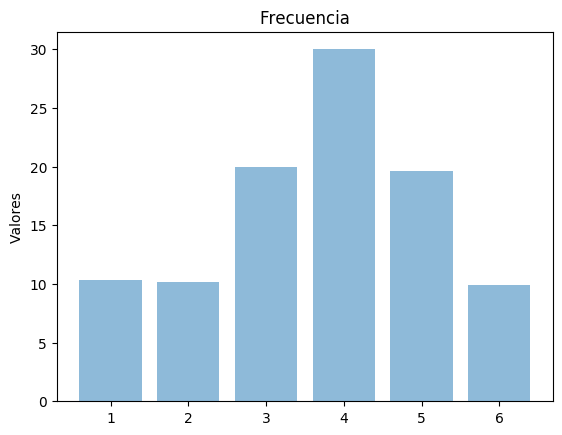
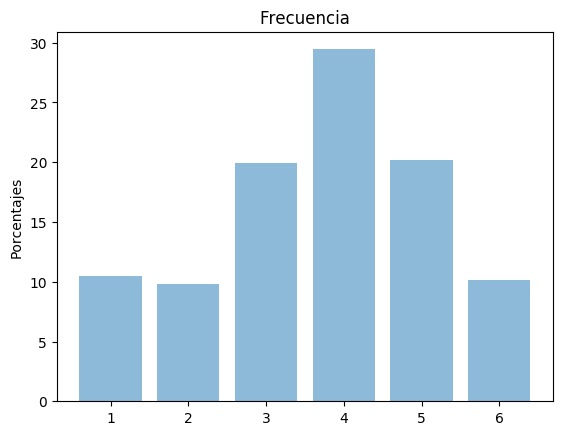
FIX ejercicio 2

diff --git a/ejercicio2.py b/ejercicio2.py
@@ -16,7 +16,7 @@ def plot_bar_x(values, frequency, title='Title'):
     plt.savefig('demo.png', bbox_inches='tight')
 
 
-def random_weighted(v, p):
+def random_weighted(fi, p):
     """ if p.sum() != 1:
         raise Exception('The sum of the p (probabilities) should be 1 not ' +
                         str(p.sum()))
@@ -27,24 +27,18 @@ def random_weighted(v, p):
         return
 
     def f():
-        r = random.random()
-        for i, value in enumerate(v):
-            if r <= np.sum(p[0:i + 1]):
-                return value
+        ac = 0
+        for i in range(0, len(fi)):
+            r = random.random()
+            ac = ac + p[i] * fi[i](r)
+
+        return ac
 
     return f
 
 
-v = np.array([1, 2, 3, 4, 5, 6])
-p = np.array([0.1, 0.1, 0.2, 0.3, 0.2, 0.1])
-print(np.sum(p, dtype=np.double))
-frequency = np.zeros(v.shape)
-
-f = random_weighted(v, p)
+f = random_weighted([], [])
+a = np.zeros(ITERATIONS)
 
 for i in range(0, ITERATIONS):
-    va = f()
-    i, = np.where(v == va)
-    frequency[i] = frequency[i] + 1
-
-plot_bar_x(v, (frequency / ITERATIONS) * 100, title='Frecuencia')
+    a[i] = f()
